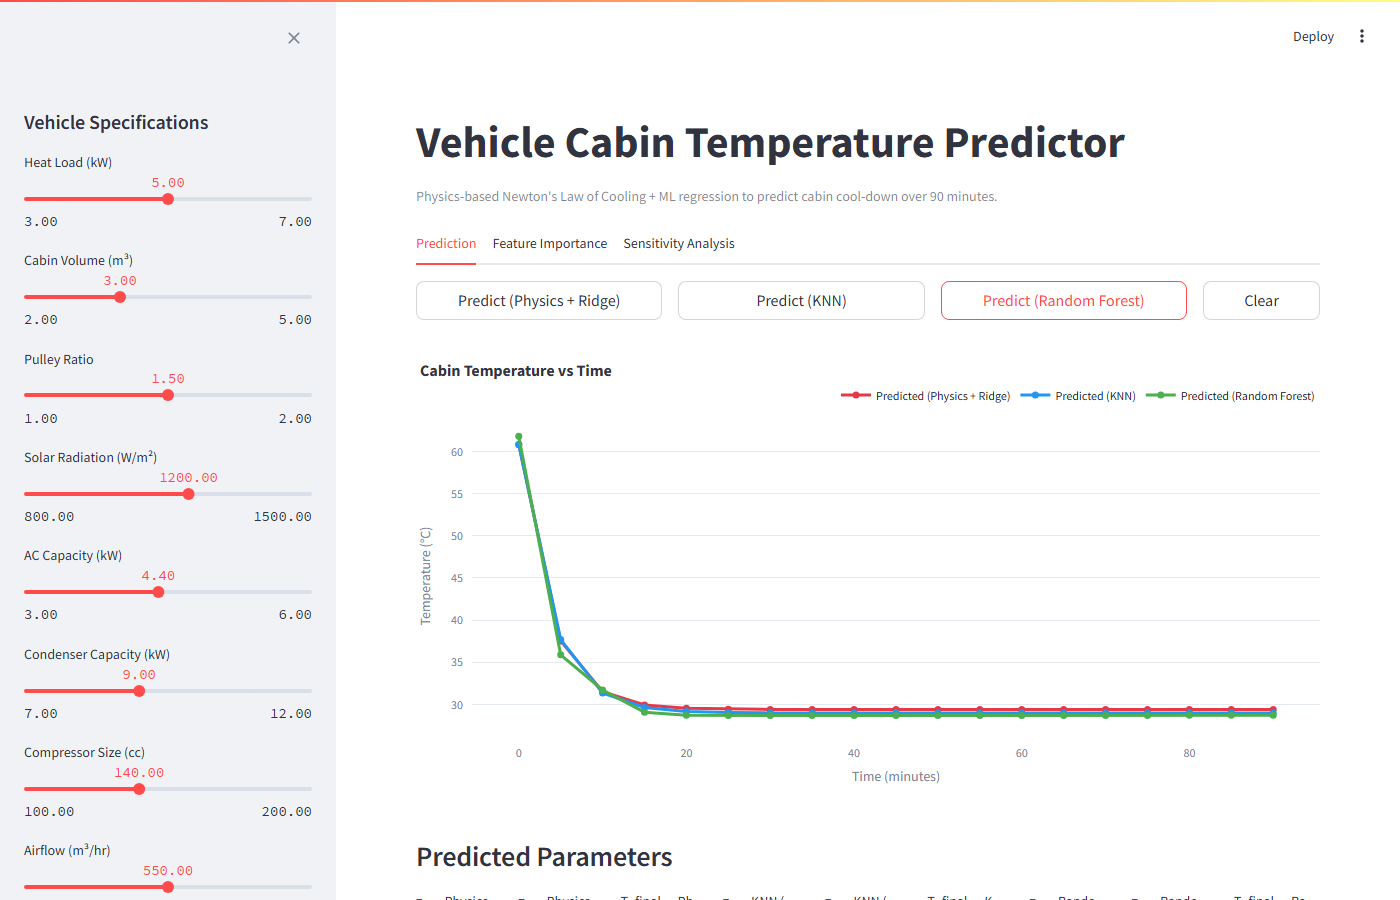
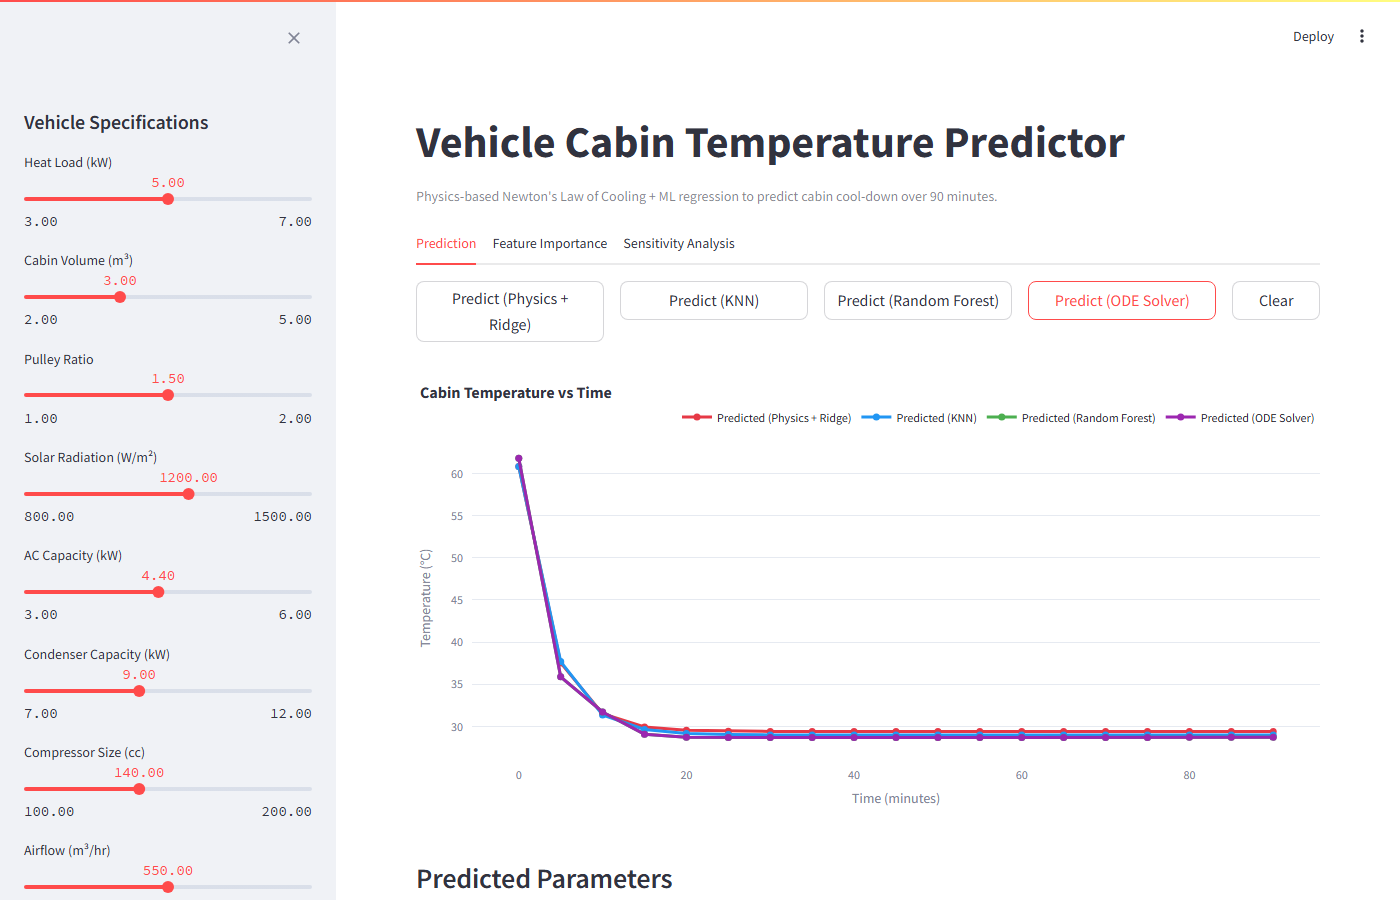
Add ODE Solver as 4th prediction method
Physics-based cabin heat balance ODE (dT/dt = (Q_in - Q_out) / thermal_mass)
integrated with scipy.integrate.solve_ivp. Ridge regression learns two
calibration coefficients (q_in_scale, q_out_scale) per vehicle from training
data using non-RPM engineered features, ensuring segment isolation holds.

Validation results:
- ODE isolation: 5/5 PASS (T@5,15,30 identical; T@55,65 spread >4degC)
- Slope change at t=50 min: 0.12 K/min (visible kink when rpm_51_70 varies)
- Physics checks: 4/4 still pass for Ridge model
- Frontend: purple Predict (ODE Solver) button; sensitivity tab method dropdown

diff --git a/backend/model.py b/backend/model.py
@@ -3,7 +3,8 @@ from pathlib import Path
 
 import numpy as np
 import pandas as pd
-from scipy.optimize import curve_fit
+from scipy.integrate import solve_ivp
+from scipy.optimize import curve_fit, minimize as _minimize
 from sklearn.ensemble import RandomForestRegressor
 from sklearn.linear_model import Ridge
 from sklearn.neighbors import KNeighborsRegressor
@@ -47,6 +48,14 @@ ENG_FEATS_ALL = [
     "ac_power_0_30", "ac_power_31_50", "ac_power_51_70", "ac_power_71_90",
 ]
 RF_FEATS = ENG_FEATS_ALL + ["time_min"]
+
+# Non-RPM features for ODE calibration — guarantees segment isolation
+ODE_CALIB_FEATS = [
+    "heat_density", "cooling_effectiveness", "airflow_heat_ratio", "solar_gain",
+    "net_cooling_power", "ebhs_heat_fraction", "heat_load_fraction", "ac_per_volume",
+    "net_cooling_per_volume", "heat_balance_ratio", "sealing_quality",
+    "infiltration_airflow_ratio", "thermal_mass", "tau_physics",
+]
 
 _IDX = {t: i for i, t in enumerate(TIME_POINTS)}
 
@@ -342,6 +351,77 @@ def _reconstruct_segmented(tau_s1: float, tau_s2: float,
 
 
 # ---------------------------------------------------------------------------
+# ODE Solver: cabin heat balance + Ridge calibration
+# ---------------------------------------------------------------------------
+
+def _solve_ode_curve(specs: dict, q_in_scale: float, q_out_scale: float,
+                     T_init: float) -> np.ndarray:
+    """Integrate dT/dt = (Q_in_scale*Q_in − Q_out_scale*Q_out) / thermal_mass.
+    t_eval is in minutes → RHS multiplied by 60 to convert K/s → K/min.
+    """
+    thermal_mass = specs["cabin_volume_m3"] * 1.2 * 1.006
+    Q_in = (specs["heat_load_kw"]
+            + specs["ebhs"]       * 0.003
+            + specs["solar_w_m2"] * 0.001)
+
+    def rhs(t, y):
+        if   t <= 30: rpm = specs["rpm_0_30"]
+        elif t <= 50: rpm = specs["rpm_31_50"]
+        elif t <= 70: rpm = specs["rpm_51_70"]
+        else:         rpm = specs["rpm_71_90"]
+        ac_power = specs["compressor_size_cc"] * specs["pulley_ratio"] * rpm / 1e6
+        Q_out = ac_power + specs["airflow_m3_hr"] * 1.2 * 1.006 * 10 / 3600
+        return [(q_in_scale * Q_in - q_out_scale * Q_out) / thermal_mass * 60]
+
+    sol = solve_ivp(
+        rhs, (0.0, 90.0), [float(T_init)],
+        t_eval=np.array(TIME_POINTS, dtype=float),
+        method="RK45", max_step=0.5, rtol=1e-5, atol=1e-7,
+    )
+    return sol.y[0]
+
+
+def _fit_ode_calibration(df: pd.DataFrame):
+    """Per-vehicle linear least-squares to find (q_in_scale, q_out_scale);
+    then train Ridge on non-RPM features so new vehicles can be calibrated
+    without leaking RPM-band information across segments."""
+    scales = np.zeros((len(df), 2))
+
+    for i, (_, row) in enumerate(df.iterrows()):
+        specs  = {c: row[c] for c in FEATURE_COLS}
+        actual = row[TEMP_COLS].values.astype(float)
+        T_0    = actual[0]
+
+        def _loss(params):
+            try:
+                pred = _solve_ode_curve(specs, params[0], params[1], T_0)
+                return float(np.sum((pred - actual) ** 2))
+            except Exception:
+                return 1e9
+
+        res = _minimize(
+            _loss, x0=[0.12, 0.38], method="L-BFGS-B",
+            bounds=[(0.01, 5.0), (0.01, 5.0)],
+            options={"maxiter": 300, "ftol": 1e-12},
+        )
+        scales[i] = np.clip(res.x, 0.01, 5.0)
+
+    print("\nODE CALIBRATION SCALES (per vehicle):")
+    for j, (_, row) in enumerate(df.iterrows()):
+        print(f"  {row['vehicle']:<6s}: "
+              f"q_in={scales[j,0]:.4f}  q_out={scales[j,1]:.4f}")
+    print(f"  Mean:  q_in={scales[:,0].mean():.4f}  q_out={scales[:,1].mean():.4f}")
+    print(f"  Range: q_in=[{scales[:,0].min():.4f},{scales[:,0].max():.4f}]  "
+          f"q_out=[{scales[:,1].min():.4f},{scales[:,1].max():.4f}]")
+
+    sc_ode    = StandardScaler()
+    X_ode     = sc_ode.fit_transform(df[ODE_CALIB_FEATS].values)
+    ridge_ode = Ridge(alpha=1.0)
+    ridge_ode.fit(X_ode, scales)
+    return ridge_ode, sc_ode
+
+
+# ---------------------------------------------------------------------------
 # Public API
 # ---------------------------------------------------------------------------
 
@@ -378,6 +458,14 @@ def predict_curve(specs_dict: dict, method: str = "physics_ridge"):
 
         curve = _reconstruct_segmented(tau_s1, tau_s2, tau_s3, tau_s4, T_final, _mean_T_soak)
         return curve, tau_s1, tau_s4, T_final
+
+    if method == "ode_solver":
+        X      = np.array([[eng[f] for f in ODE_CALIB_FEATS]])
+        scales = _ridge_ode.predict(_sc_ode.transform(X))[0]
+        q_in_scale  = float(np.clip(scales[0], 0.0, 100.0))
+        q_out_scale = float(np.clip(scales[1], 0.0, 100.0))
+        temps = _solve_ode_curve(specs_dict, q_in_scale, q_out_scale, _mean_T_soak).tolist()
+        return temps, 0.0, 0.0, float(temps[-1])
 
     # random_forest: direct temperature prediction
     base_feats = [eng[f] for f in ENG_FEATS_ALL]
@@ -430,6 +518,55 @@ def get_all_vehicle_curves() -> list:
             "T_final":      round(row["T_final"], 3),
         })
     return result
+
+
+# ---------------------------------------------------------------------------
+# Validation: ODE segment isolation
+# ---------------------------------------------------------------------------
+
+def _validate_ode_isolation() -> None:
+    """Verify rpm_51_70 only affects temperatures in its own window (50–70 min)."""
+    BASE = {
+        "heat_load_kw": 4.8, "cabin_volume_m3": 3.1, "pulley_ratio": 1.5,
+        "solar_w_m2": 1200.0, "ac_unit_capacity_kw": 4.4, "condenser_capacity_kw": 9.0,
+        "compressor_size_cc": 130.0, "airflow_m3_hr": 550.0, "soaking_time_hr": 1.0,
+        "rpm_0_30": 1600.0, "rpm_31_50": 1700.0, "rpm_51_70": 1800.0,
+        "rpm_71_90": 750.0, "ebhs": 100.0,
+    }
+    rpm_vals = np.linspace(1400, 2230, 5)
+    curves   = []
+    for r in rpm_vals:
+        s = dict(BASE); s["rpm_51_70"] = float(r)
+        c, _, _, _ = predict_curve(s, method="ode_solver")
+        curves.append(c)
+
+    print("\nODE SOLVER ISOLATION TEST (rpm_51_70 sweep 1400-2230):")
+    TOL_CONST, TOL_VARY = 0.01, 0.05
+    checks = [
+        (5,  True,  "constant"),
+        (15, True,  "constant"),
+        (30, True,  "constant"),
+        (55, False, "varies"),
+        (65, False, "varies"),
+    ]
+    n_pass = 0
+    for t_min, should_be_const, label in checks:
+        vals   = [c[_IDX[t_min]] for c in curves]
+        spread = max(vals) - min(vals)
+        passed = (spread < TOL_CONST) if should_be_const else (spread > TOL_VARY)
+        n_pass += passed
+        print(f"  [{'PASS' if passed else 'FAIL'}] T@{t_min:2d}min must be {label:8s}: "
+              f"spread={spread:.4f}°C  [{', '.join(f'{v:.3f}' for v in vals)}]")
+
+    c_mid    = curves[2]
+    s_before = (c_mid[_IDX[50]] - c_mid[_IDX[45]]) / 5
+    s_after  = (c_mid[_IDX[55]] - c_mid[_IDX[50]]) / 5
+    change   = abs(s_after - s_before)
+    print(f"\n  Slope before t=50 (45-50 min): {s_before:+.4f} K/min")
+    print(f"  Slope after  t=50 (50-55 min): {s_after:+.4f} K/min")
+    print(f"  Slope change at t=50:           {change:.4f} K/min "
+          f"({'visible' if change > 0.01 else 'imperceptible'})")
+    print(f"  {n_pass}/{len(checks)} ODE isolation checks passed\n")
 
 
 # ---------------------------------------------------------------------------
@@ -546,5 +683,8 @@ def _validate_segments() -> None:
     print(f"  {n_pass}/{total} isolation checks passed\n")
 
 
+_ridge_ode, _sc_ode = _fit_ode_calibration(_df)
+
 _validate_physics()
 _validate_segments()
+_validate_ode_isolation()

diff --git a/frontend/app.py b/frontend/app.py
@@ -29,12 +29,14 @@ COLORS = {
     "physics_ridge": "#E63946",
     "knn":           "#2196F3",
     "random_forest": "#4CAF50",
+    "ode_solver":    "#9C27B0",
 }
 
 METHOD_LABELS = {
     "physics_ridge": "Physics + Ridge",
     "knn":           "KNN",
     "random_forest": "Random Forest",
+    "ode_solver":    "ODE Solver",
 }
 
 FEATURE_EXPLANATIONS = {
@@ -163,10 +165,11 @@ def main():
 
     # ── Tab 1: Prediction ──────────────────────────────────────────────────────
     with tab1:
-        col_r, col_k, col_rf, col_clr = st.columns([2, 2, 2, 1])
+        col_r, col_k, col_rf, col_ode, col_clr = st.columns([2, 2, 2, 2, 1])
         clicked_ridge = col_r.button("Predict (Physics + Ridge)", use_container_width=True)
         clicked_knn   = col_k.button("Predict (KNN)",             use_container_width=True)
         clicked_rf    = col_rf.button("Predict (Random Forest)",  use_container_width=True)
+        clicked_ode   = col_ode.button("Predict (ODE Solver)",    use_container_width=True)
         clicked_clear = col_clr.button("Clear",                   use_container_width=True)
 
         if "predictions" not in st.session_state:
@@ -179,6 +182,7 @@ def main():
             (clicked_ridge, "physics_ridge"),
             (clicked_knn,   "knn"),
             (clicked_rf,    "random_forest"),
+            (clicked_ode,   "ode_solver"),
         ]:
             if btn:
                 data, err = call_predict(specs, method)
@@ -230,9 +234,9 @@ def main():
             idx = 0
             for method, data in st.session_state.predictions.items():
                 label = METHOD_LABELS[method]
-                is_rf = method == "random_forest"
-                cols[idx    ].metric(f"τ₁ — {label} (min)",    "N/A" if is_rf else f"{data['tau1']:.2f}")
-                cols[idx + 1].metric(f"τ₂ — {label} (min)",    "N/A" if is_rf else f"{data['tau2']:.2f}")
+                no_tau = method in ("random_forest", "ode_solver")
+                cols[idx    ].metric(f"τ₁ — {label} (min)",    "N/A" if no_tau else f"{data['tau1']:.2f}")
+                cols[idx + 1].metric(f"τ₂ — {label} (min)",    "N/A" if no_tau else f"{data['tau2']:.2f}")
                 cols[idx + 2].metric(f"T_final — {label} (°C)", f"{data['T_final']:.2f}")
                 idx += 3
 
@@ -290,11 +294,19 @@ def main():
             feat_keys   = list(FEATURE_CONFIG.keys())
             feat_labels = {k: FEATURE_CONFIG[k][0] for k in feat_keys}
 
-            sens_mode = st.radio(
-                "Analysis mode",
-                options=["Individual band", "All bands scaled"],
-                horizontal=True,
-            )
+            c_mode, c_meth = st.columns([3, 2])
+            with c_mode:
+                sens_mode = st.radio(
+                    "Analysis mode",
+                    options=["Individual band", "All bands scaled"],
+                    horizontal=True,
+                )
+            with c_meth:
+                sens_method = st.selectbox(
+                    "Prediction method",
+                    options=["physics_ridge", "knn", "random_forest", "ode_solver"],
+                    format_func=lambda m: METHOD_LABELS[m],
+                )
 
             selected_feat = None
             feat_min = feat_max = None
@@ -345,7 +357,7 @@ def main():
                         for v in test_vals:
                             test_specs = dict(specs)
                             test_specs[selected_feat] = float(v)
-                            data, err = call_predict(test_specs, "physics_ridge")
+                            data, err = call_predict(test_specs, sens_method)
                             if data:
                                 results.append((float(v), data))
                     st.session_state.sensitivity = {
@@ -363,7 +375,7 @@ def main():
                             test_specs["rpm_31_50"] = float(specs["rpm_31_50"] * mult)
                             test_specs["rpm_51_70"] = float(specs["rpm_51_70"] * mult)
                             test_specs["rpm_71_90"] = float(specs["rpm_71_90"] * mult)
-                            data, err = call_predict(test_specs, "physics_ridge")
+                            data, err = call_predict(test_specs, sens_method)
                             if data:
                                 results.append((float(mult), data))
                     st.session_state.sensitivity = {

diff --git a/backend/main.py b/backend/main.py
@@ -18,7 +18,7 @@ app.add_middleware(
 @app.post("/predict", response_model=PredictionResponse)
 def predict(
     specs: VehicleSpecs,
-    method: str = Query("physics_ridge", enum=["physics_ridge", "knn", "random_forest"]),
+    method: str = Query("physics_ridge", enum=["physics_ridge", "knn", "random_forest", "ode_solver"]),
 ):
     temps, tau1, tau2, T_final = predict_curve(specs.model_dump(), method=method)
     return PredictionResponse(